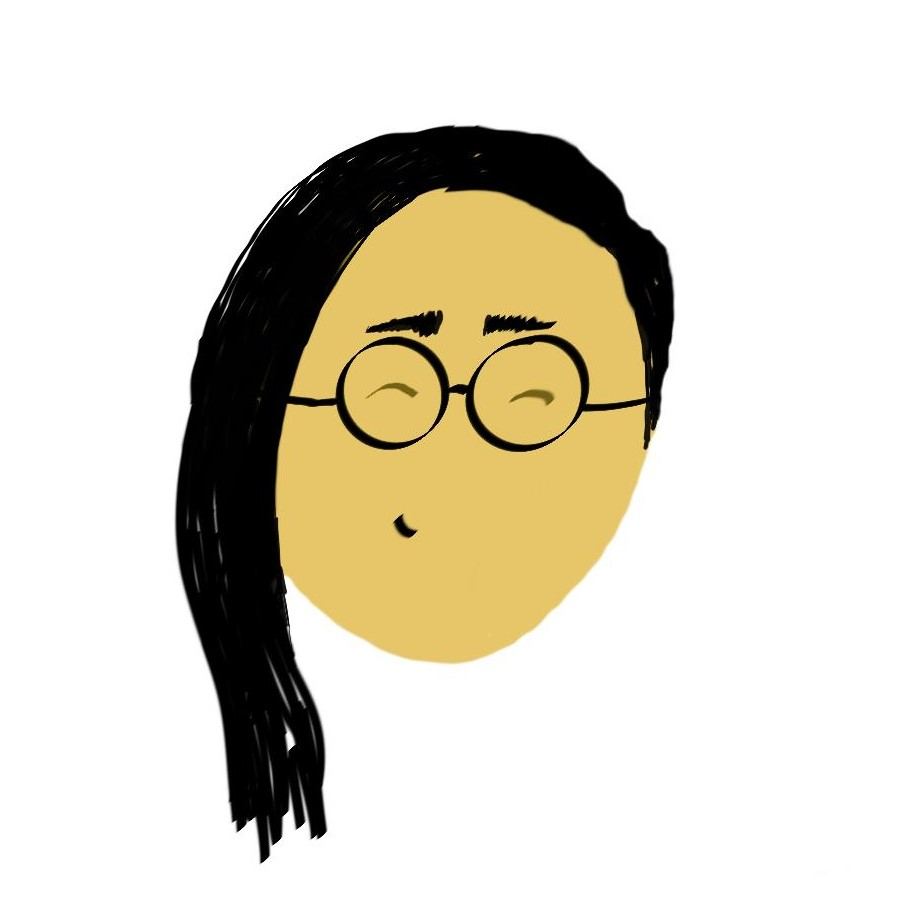
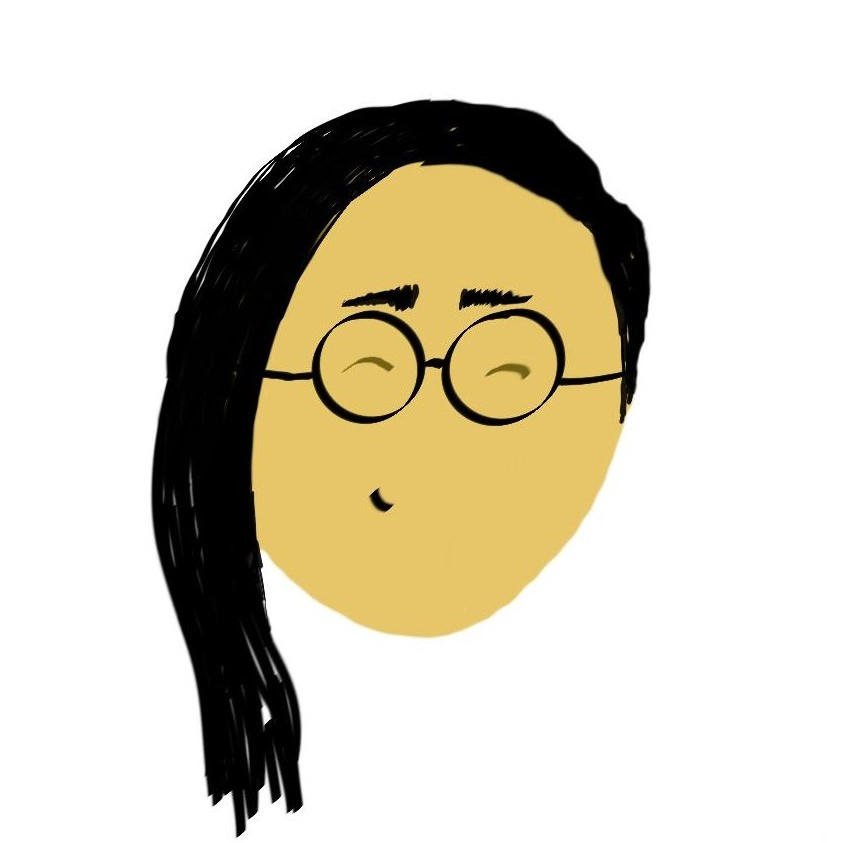
updated bio head size

Changed region(s): [[0.154, 0.0925, 0.7701, 1.0], [0.4313, 0.5552, 0.4621, 0.6168]]

diff --git a/css/style.css b/css/style.css
@@ -964,93 +964,6 @@ li {
   margin-top: 5%;
 }
 
-@media only screen and (max-width: 700px) {
-  .modal {
-  margin: 0px;
-  width: 100%;
-  height: 100%;
-  }
-
-  .card_row{
-    padding-top: 0%;
-    margin-bottom: 0%;
-  }
-
-
-    .card_row .col-md-4{
-      padding-bottom: 3%;
-    }
-
-  .accordion {
-
-    font-size: 110%;
-    border-radius: 50px;
-  }
-
-  h1 {
-    font-size: 200%;
-  }
-  .chapter_title{
-    font-size: 225%;
-  }
-
-  h2 {
-    font-size: 175%;
-  }
-
-  h3{
-    font-size: 150%;
-  }
-
-  h3 {
-    font-size: 125%;
-  }
-
-  .card-title{
-    font-size: 130%;
-  }
-
-
-  #navbar-side{
-    display: none;
-    opacity: 0;
-  }
-
-  #website_title{
-    font-size: 300%;
-    font-kerning: normal;
-  }
-  #website_subtitle{
-    font-size: 250%;
-  }
-  #title_chevron{
-    font-size: 300%;
-  }
-  .intro_emphasis{
-    font-size: 6vw;
-  }
-  p.intro_emphasis{
-    font-size: 6vw;
-  }
-  .intro_paragraphs{
-    font-size: 5vw;
-  }
-
-  .small-card{
-    width: 100%;
-    height: 100%;
-  }
-
-  .case_cards{
-    width: 100%;
-    height: 100%;
-  }
-
-  .card-get-active{
-    height: 50%;
-  }
-}
-
 .bio_images{
   display: block;
   margin-left: auto;
@@ -1154,4 +1067,93 @@ li {
 
 .popover_image{
   width: 50%;
+}
+
+/* MOBILE SPECIFICATIONS */
+
+@media only screen and (max-width: 700px) {
+  .modal {
+  margin: 0px;
+  width: 100%;
+  height: 100%;
+  }
+
+  .card_row{
+    padding-top: 0%;
+    margin-bottom: 0%;
+  }
+
+
+    .card_row .col-md-4{
+      padding-bottom: 3%;
+    }
+
+  .accordion {
+
+    font-size: 110%;
+    border-radius: 50px;
+  }
+
+  h1 {
+    font-size: 200%;
+  }
+  .chapter_title{
+    font-size: 225%;
+  }
+
+  h2 {
+    font-size: 175%;
+  }
+
+  h3{
+    font-size: 150%;
+  }
+
+  h3 {
+    font-size: 125%;
+  }
+
+  .card-title{
+    font-size: 130%;
+  }
+
+
+  #navbar-side{
+    display: none;
+    opacity: 0;
+  }
+
+  #website_title{
+    font-size: 300%;
+    font-kerning: normal;
+  }
+  #website_subtitle{
+    font-size: 250%;
+  }
+  #title_chevron{
+    font-size: 300%;
+  }
+  .intro_emphasis{
+    font-size: 6vw;
+  }
+  p.intro_emphasis{
+    font-size: 6vw;
+  }
+  .intro_paragraphs{
+    font-size: 5vw;
+  }
+
+  .small-card{
+    width: 100%;
+    height: 100%;
+  }
+
+  .case_cards{
+    width: 100%;
+    height: 100%;
+  }
+
+  .card-get-active{
+    height: 50vw;
+  }
 }

diff --git a/index.html b/index.html
@@ -2329,7 +2329,7 @@
         <p class="bio"><em> Deepra is a native New Yorker, former government analyst, and design thinker committed to finding ways governments and technology can form ethical and symbiotic relationships.</em></p>
       </div>
       <div class="col-md-3">
-        <img src="img/elyse.jpg" class="bio_images hvr-wobble-vertical">
+        <img src="img/elyse2.jpg" class="bio_images hvr-wobble-vertical">
         <h3 class="center bio_name"> Elyse </h3>
         <p class="center">Design<br> + <br> Engineering</p>
         <p class="bio"><em> Elyse is a data analyst and designer committed to making tech accountable, accessible, and delightful.</em></p>
